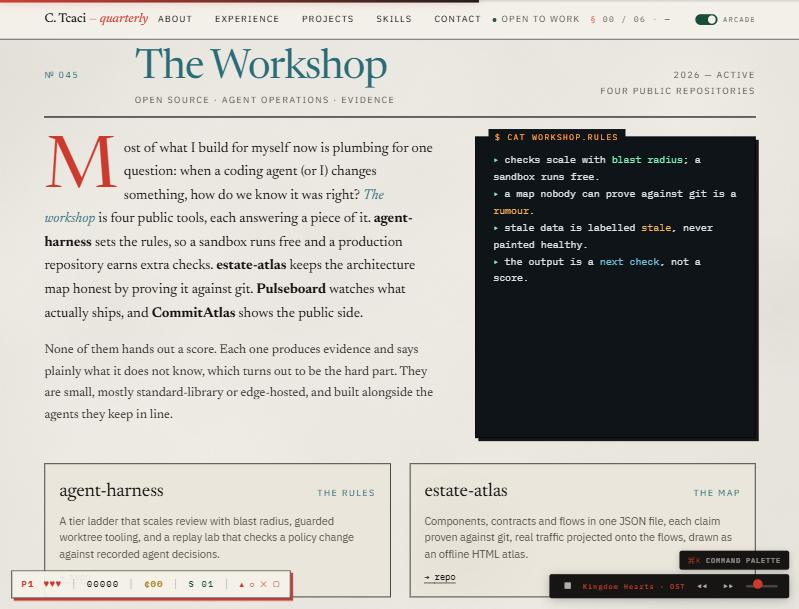
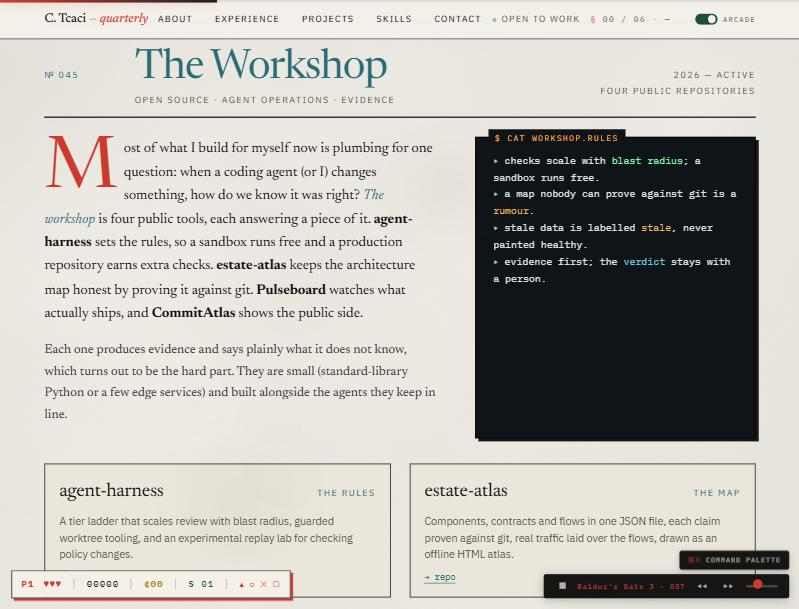
previews: refresh option B shots after the review fixes

diff --git a/.hosting/previews/2026-10-04/README.md b/.hosting/previews/2026-10-04/README.md
@@ -8,3 +8,7 @@ Captured from local builds of the PR branches in a 1024px desktop pane and a 375
 3. `3-optionA-catalogue-desktop.jpg`: option A, four new catalogue rows with links (#16).
 4. `4-optionB-workshop-desktop-1.jpg`, `5-optionB-workshop-desktop-2.jpg`: option B, the featured Workshop spread (#17).
 5. `6-optionB-workshop-mobile-1.jpg`, `7-optionB-workshop-mobile-2.jpg`: option B on a phone, with the mobile fix.
+
+Updated after review (Sol, Grok): 3, 4 and 6 show the current wording. 5 and 7 (the cards) predate two small copy edits
+(the agent-harness card now says "an experimental replay lab for checking policy changes"; estate-atlas says
+"laid over" instead of "projected onto"); layout is unchanged.
